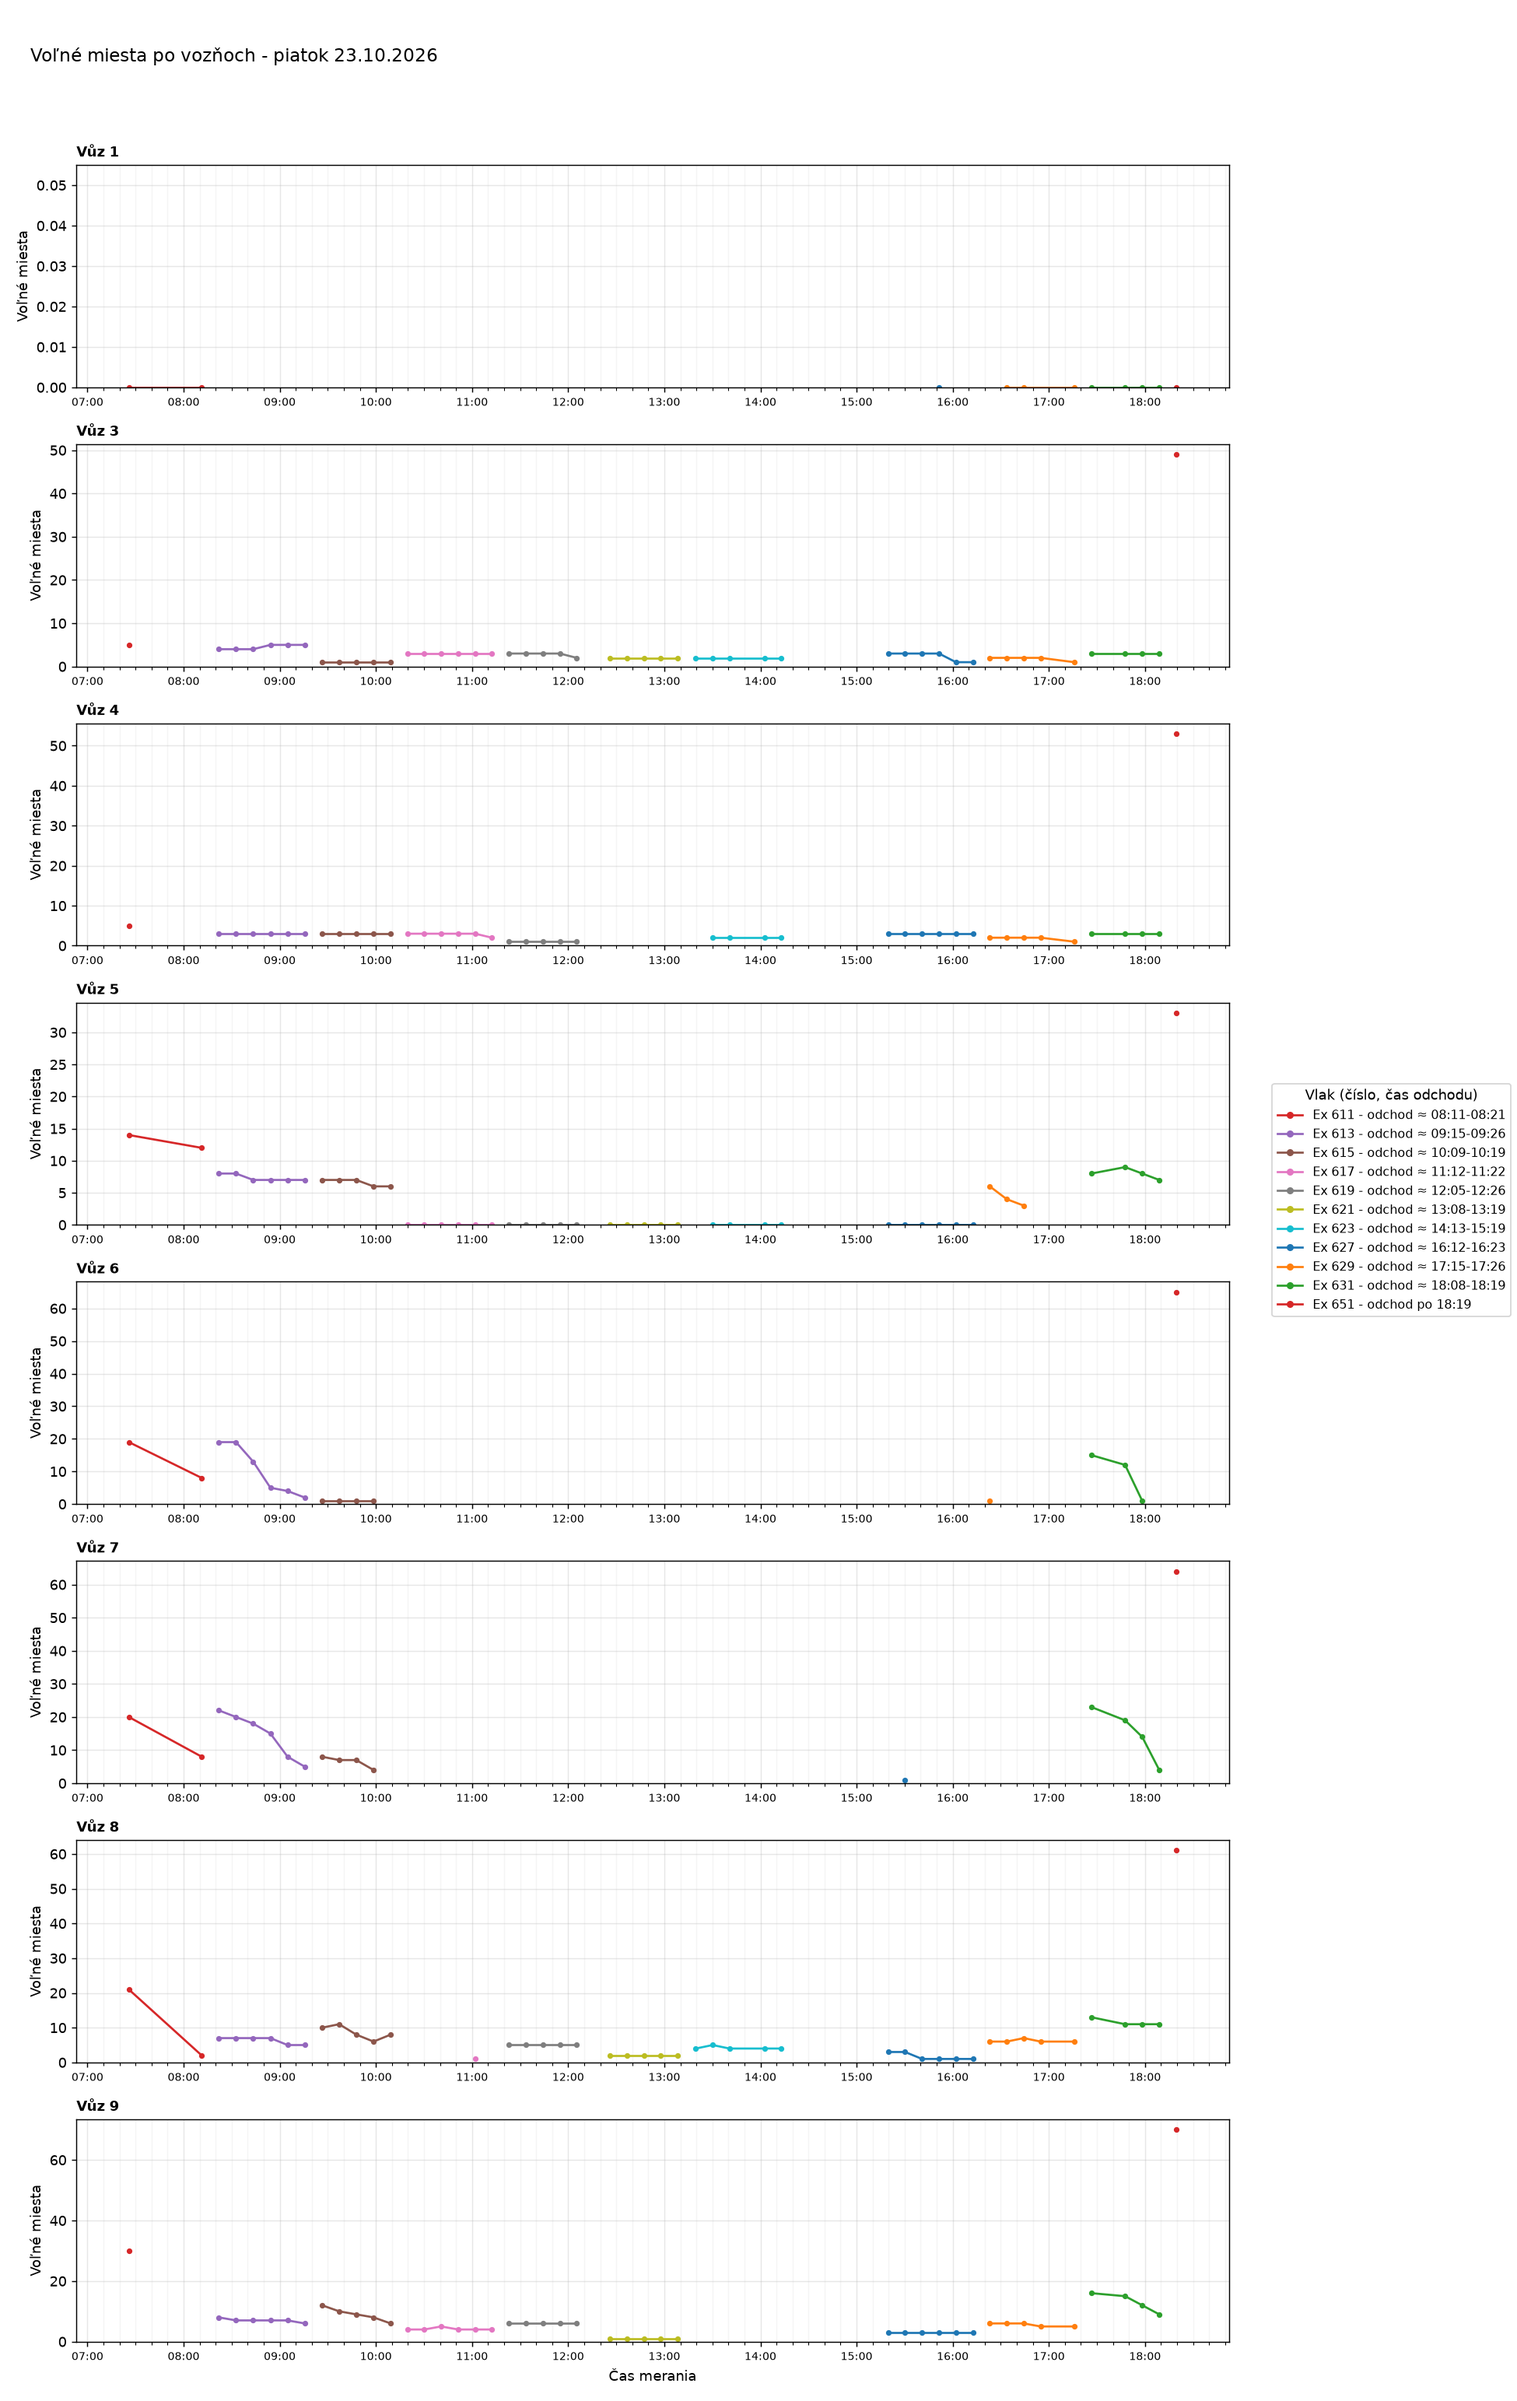
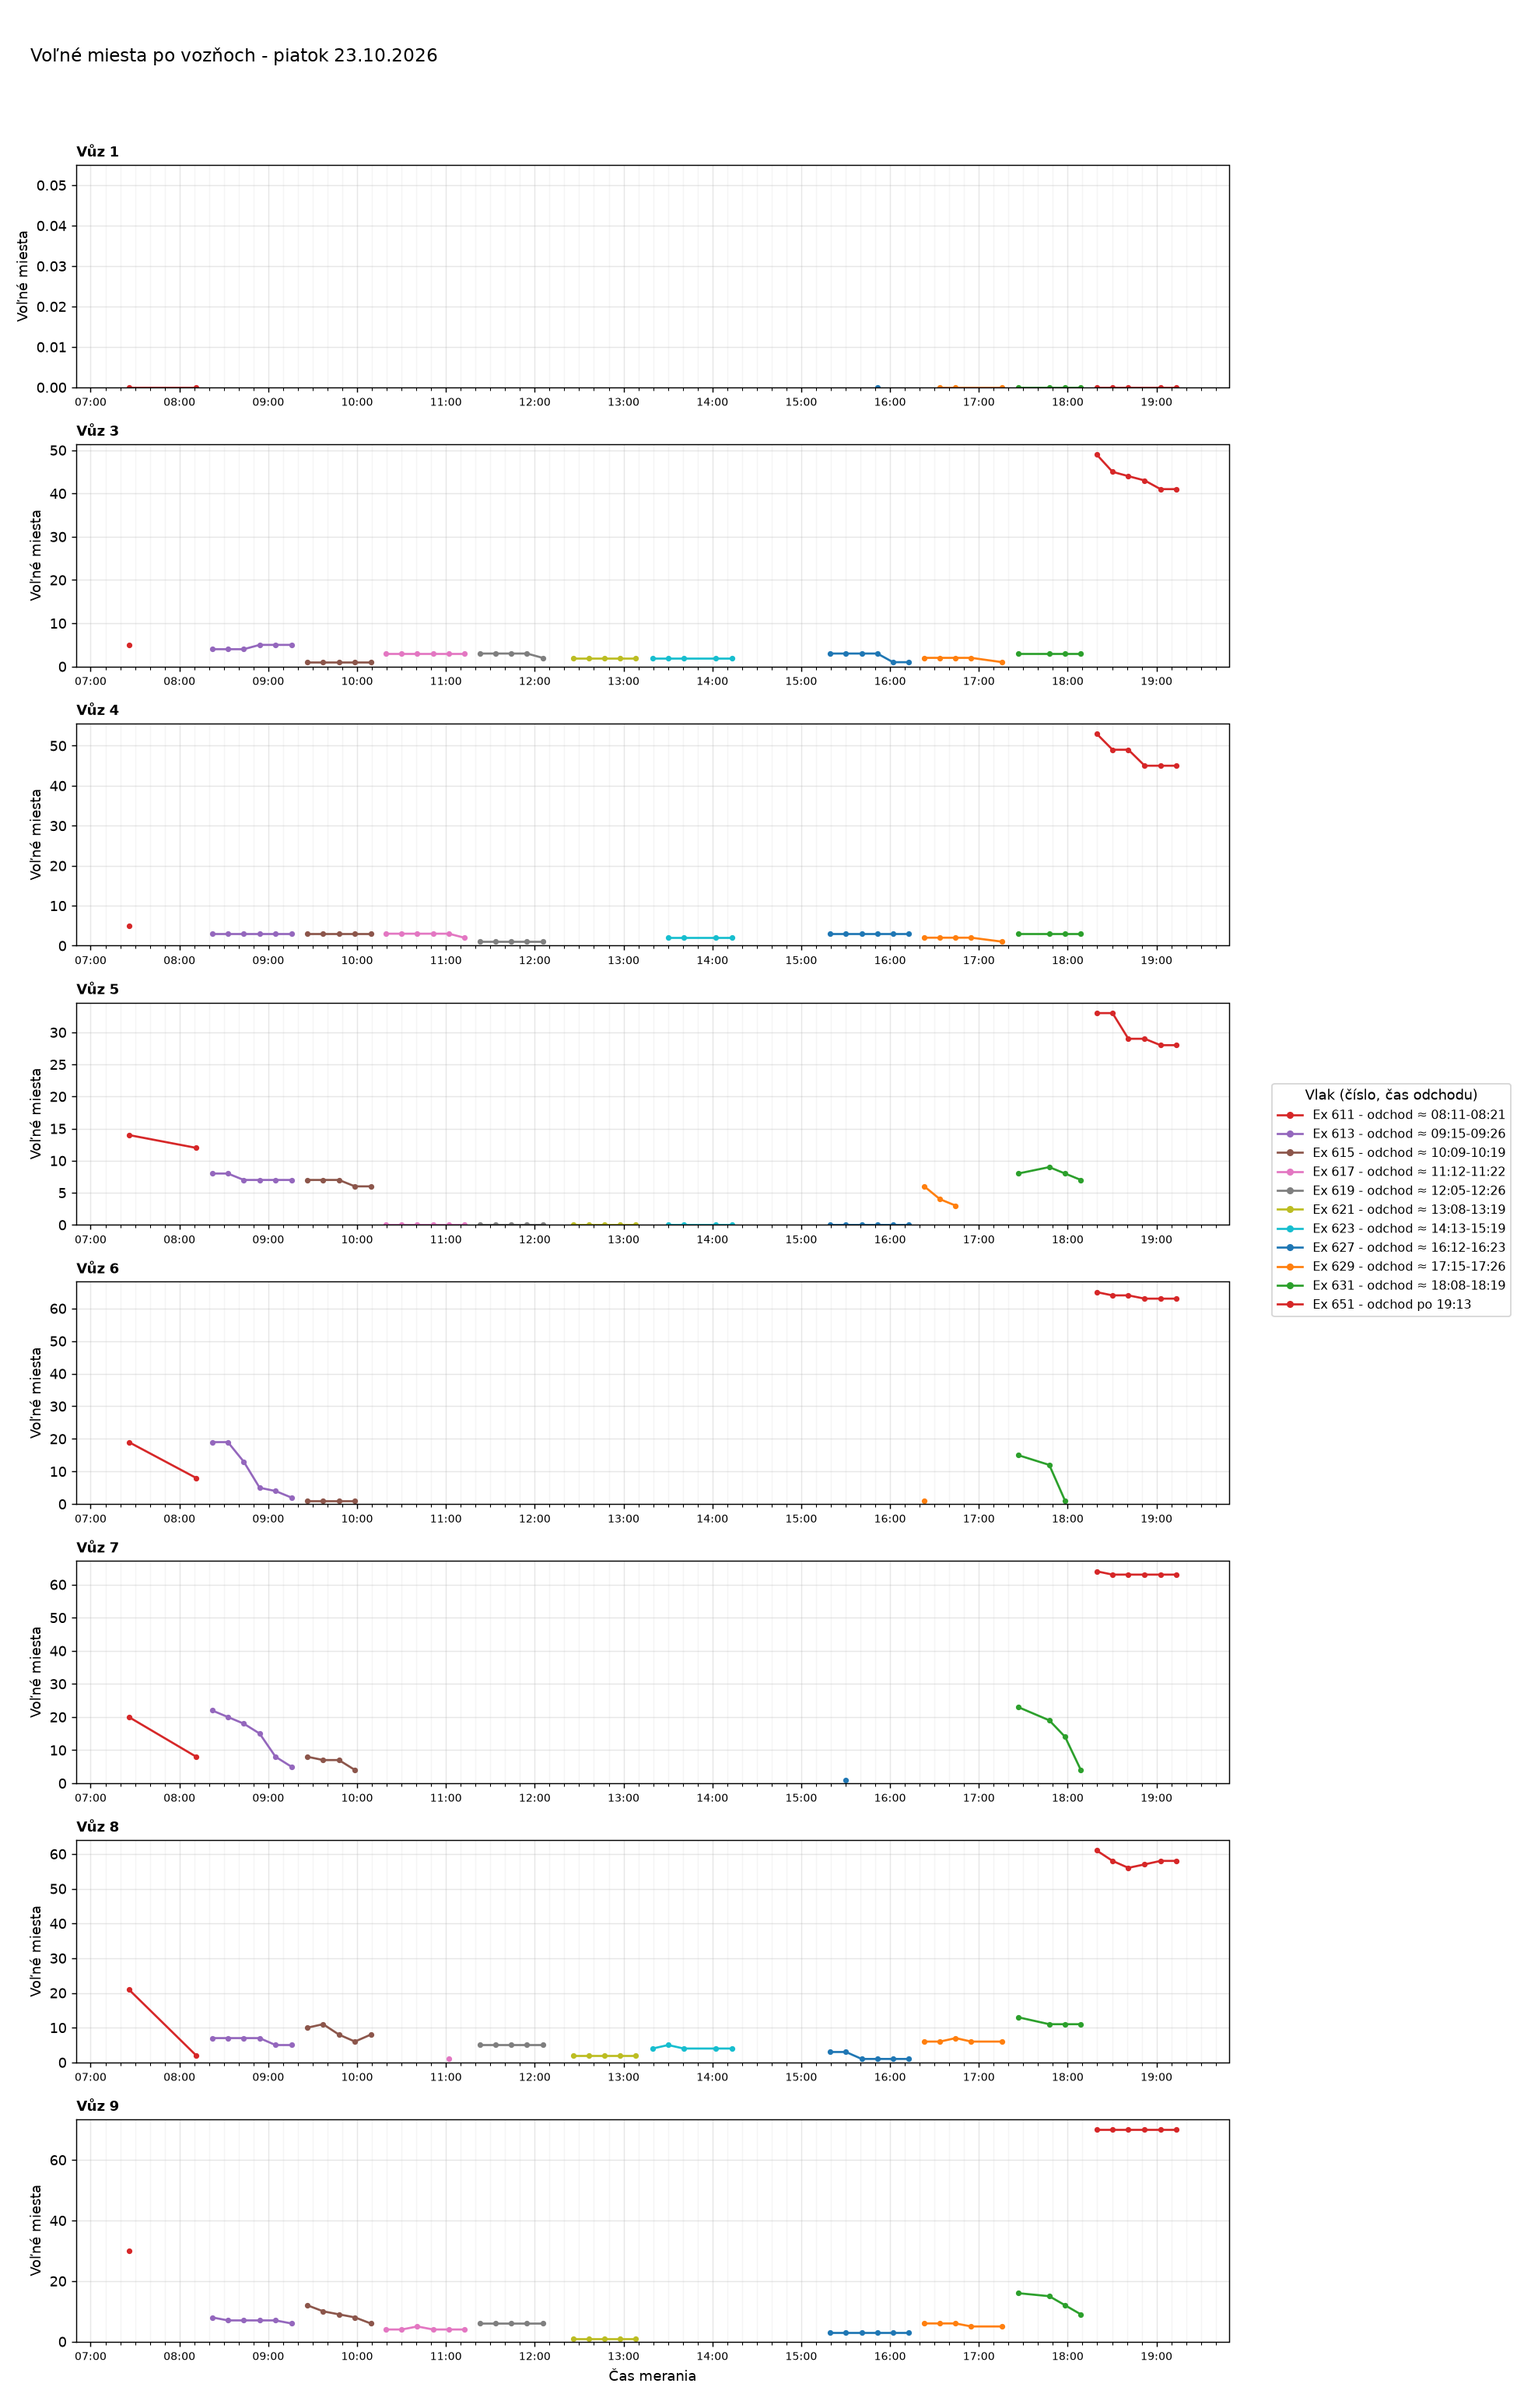
Aktualizácia grafov 2026-10-23 19:22

diff --git a/index.html b/index.html
@@ -35,7 +35,7 @@ h2.oddiel{margin:36px 0 0;font-size:1.4rem}
 <body>
 <main>
 <h1>Voľné miesta vo vlakoch</h1>
-<p class="muted">Posledné meranie: 23.10.2026 18:19 ·
+<p class="muted">Posledné meranie: 23.10.2026 19:13 ·
 <a href="data/obsadenost_data.csv">stiahnuť dáta (CSV)</a></p>
 <nav class="nav"><a href="#suhrn">Súhrn</a><a href="#statistiky">Štatistiky</a><a href="#historia">História grafov</a></nav>
 
@@ -44,7 +44,7 @@ h2.oddiel{margin:36px 0 0;font-size:1.4rem}
 <div class="tablewrap"><table>
 <thead><tr><th>Deň</th><th>Meraní</th><th>Vlakov</th><th>Čas meraní</th></tr></thead>
 <tbody>
-<tr><td><a href="#d2026-10-23">piatok 23.10.2026</a></td><td>50</td><td>11</td><td>07:25-18:19</td></tr>
+<tr><td><a href="#d2026-10-23">piatok 23.10.2026</a></td><td>55</td><td>11</td><td>07:25-19:13</td></tr>
 <tr><td><a href="#d2026-10-22">štvrtok 22.10.2026</a></td><td>80</td><td>11</td><td>00:08-16:10</td></tr>
 <tr><td><a href="#d2026-10-21">streda 21.10.2026</a></td><td>96</td><td>15</td><td>00:10-23:58</td></tr>
 <tr><td><a href="#d2026-10-20">utorok 20.10.2026</a></td><td>34</td><td>7</td><td>13:55-23:50</td></tr>
